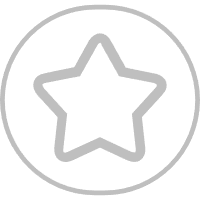
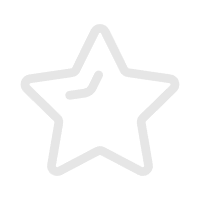
fix: 收藏图标换新、播放页四按钮统一液态玻璃圆底
1. 收藏图标换成用户新提供的星形图标
   - 已收藏：红色实心星（新图）
   - 未收藏：灰色空心星（新图）

2. 播放页四个按钮统一大小/背景
   - 增强 glassCircleStyle：更明显的半透明灰白玻璃底 + 细描边 + 柔和投影
   - 四个按钮（收藏/播放模式/评论/列表）均用同一套圆形玻璃底

3. 修复第四个列表图标超出圆形背景
   根因：PlaylistBtn 的层级结构（Touchable > Animated > Image）
   与其它按钮 Btn（Animated > Touchable > Icon）不一致，
   导致尺寸/对齐渲染差异、图标看起来超出圆。
   修复：把 PlaylistBtn 改成与 Btn 完全相同的层级结构，
   Image 尺寸 19 与 Icon 一致，并加 alignSelf:center 确保居中。

Changed region(s): [[0.0, 0.0, 1.0, 0.99], [0.33, 0.36, 0.51, 0.51]]

diff --git a/src/screens/Home/Views/Player/PlaylistBtn.tsx b/src/screens/Home/Views/Player/PlaylistBtn.tsx
@@ -7,22 +7,32 @@ import { GLASS_CIRCLE_SIZE, glassCircleStyle } from '@/screens/PlayDetail/Vertic
 // eslint-disable-next-line @typescript-eslint/no-var-requires
 const ICON_LIST = require('@/resources/images/icon_list.png')
 
-/** 播放页操作行的「当前播放列表」按钮：与其它按钮共用同一套玻璃底和尺寸 */
+/**
+ * 播放页操作行的「当前播放列表」按钮。
+ * 层级结构与 MoreBtn/Btn 完全一致（Animated.View > TouchableOpacity > 图标），
+ * 保证四个按钮尺寸、圆底、对齐完全相同。
+ */
 export default memo(({ onPress }: { onPress: () => void }) => {
-  const scale = useRef(new Animated.Value(1)).current
+  const pressScale = useRef(new Animated.Value(1)).current
   const animateTo = (to: number) => {
-    Animated.timing(scale, { toValue: to, duration: to < 1 ? 90 : 180, easing: Easing.out(Easing.cubic), useNativeDriver: true }).start()
+    Animated.timing(pressScale, { toValue: to, duration: to < 1 ? 90 : 180, easing: Easing.out(Easing.cubic), useNativeDriver: true }).start()
   }
+
   return (
-    <TouchableOpacity
-      activeOpacity={0.7}
-      onPress={() => { haptic.tap(); onPress() }}
-      onPressIn={() => { animateTo(0.96) }}
-      onPressOut={() => { animateTo(1) }}
-    >
-      <Animated.View style={[glassCircleStyle(GLASS_CIRCLE_SIZE), { transform: [{ scale }] }]}>
-        <Image source={ICON_LIST} style={{ width: scaleSizeW(19), height: scaleSizeW(19) }} resizeMode="contain" />
-      </Animated.View>
-    </TouchableOpacity>
+    <Animated.View style={{ transform: [{ scale: pressScale }] }}>
+      <TouchableOpacity
+        style={glassCircleStyle(GLASS_CIRCLE_SIZE)}
+        activeOpacity={1}
+        onPressIn={() => { animateTo(0.96) }}
+        onPressOut={() => { animateTo(1) }}
+        onPress={() => { haptic.tap(); onPress() }}
+      >
+        <Image
+          source={ICON_LIST}
+          style={{ width: scaleSizeW(19), height: scaleSizeW(19), alignSelf: 'center' }}
+          resizeMode="contain"
+        />
+      </TouchableOpacity>
+    </Animated.View>
   )
 })

diff --git a/src/screens/PlayDetail/Vertical/Player/components/MoreBtn/glassButton.ts b/src/screens/PlayDetail/Vertical/Player/components/MoreBtn/glassButton.ts
@@ -14,21 +14,19 @@ import { scaleSizeW } from '@/utils/pixelRatio'
  */
 export const GLASS_CIRCLE_SIZE = Math.max(44, scaleSizeW(46))
 
-/** 玻璃主题下的圆形底样式 */
+/** 玻璃主题下的圆形底样式（四个按钮共用，液态玻璃质感） */
 export const glassCircleStyle = (size: number) => ({
   width: size,
   height: size,
   borderRadius: size / 2,
-  backgroundColor: 'rgba(255, 255, 255, 0.09)',
+  // 更明显的玻璃底：半透明灰白 + 细描边 + 内高光 + 柔和投影
+  backgroundColor: 'rgba(255, 255, 255, 0.14)',
   borderWidth: StyleSheet.hairlineWidth,
-  borderTopColor: 'rgba(255, 255, 255, 0.30)',
-  borderLeftColor: 'rgba(255, 255, 255, 0.20)',
-  borderRightColor: 'rgba(255, 255, 255, 0.16)',
-  borderBottomColor: 'rgba(255, 255, 255, 0.10)',
-  shadowColor: 'rgba(6, 4, 4, 0.55)',
-  shadowOffset: { width: 0, height: 8 },
-  shadowOpacity: 0.4,
-  shadowRadius: 18,
+  borderColor: 'rgba(255, 255, 255, 0.28)',
+  shadowColor: 'rgba(0, 0, 0, 0.45)',
+  shadowOffset: { width: 0, height: 4 },
+  shadowOpacity: 0.35,
+  shadowRadius: 10,
 })
 
 /**
